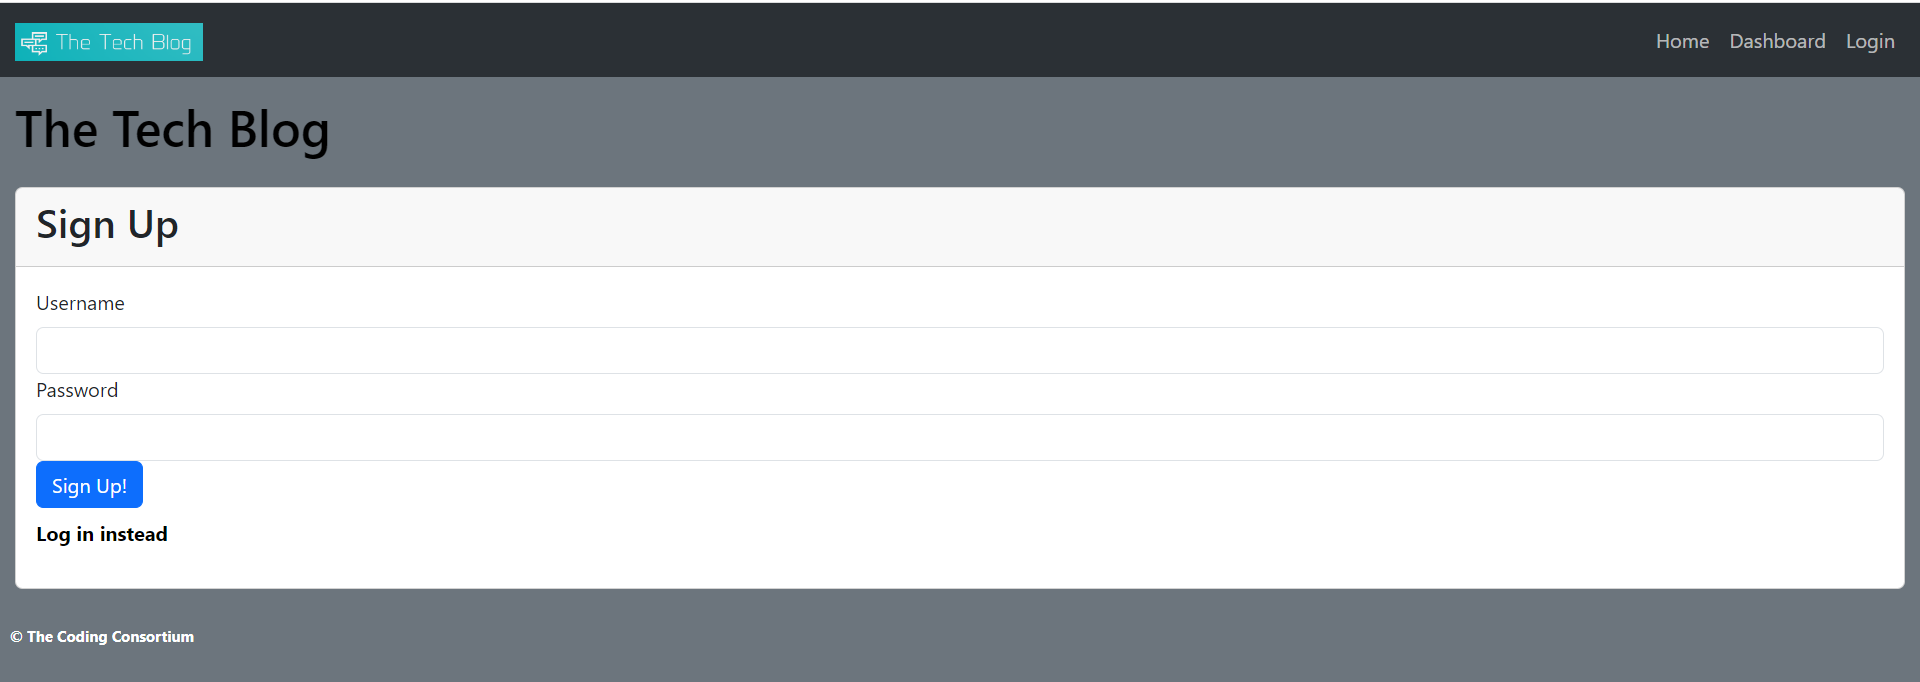
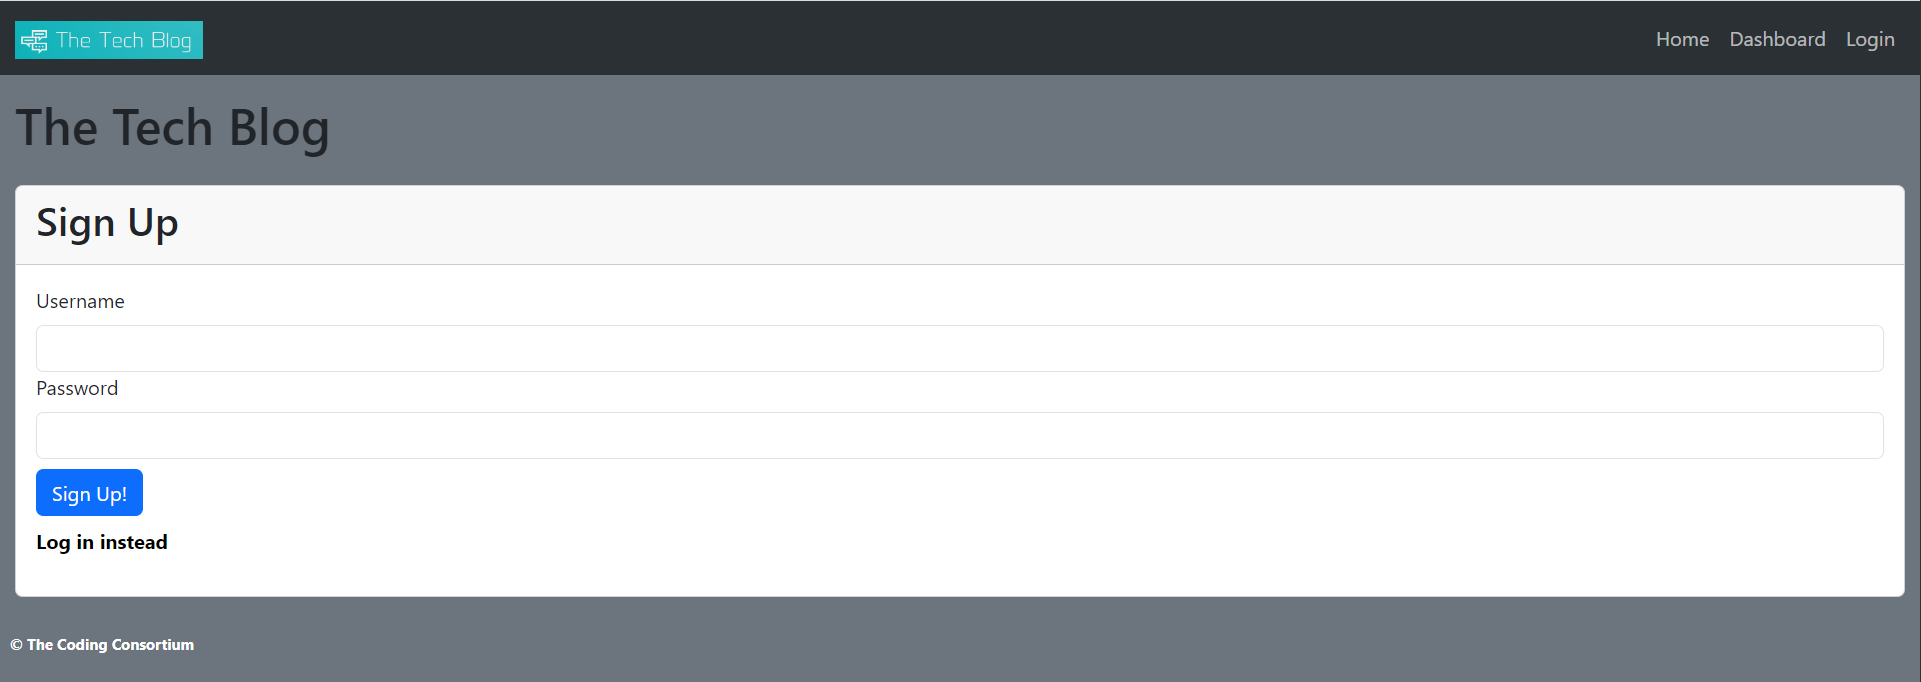
Made minor handlebars modifications, added additional readme screenshot

diff --git a/README.md b/README.md
@@ -24,6 +24,7 @@ SO THAT I can publish articles, blog posts, and my thoughts and opinions
 <img src="./public/images/Screenshot1.png">
 <img src="./public/images/Screenshot2.png">
 <img src="./public/images/Screenshot3.png">
+<img src="./public/images/Screenshot4.png">
 
 ## License
 This project is licensed under the MIT License - see the LICENSE.md file for details.
